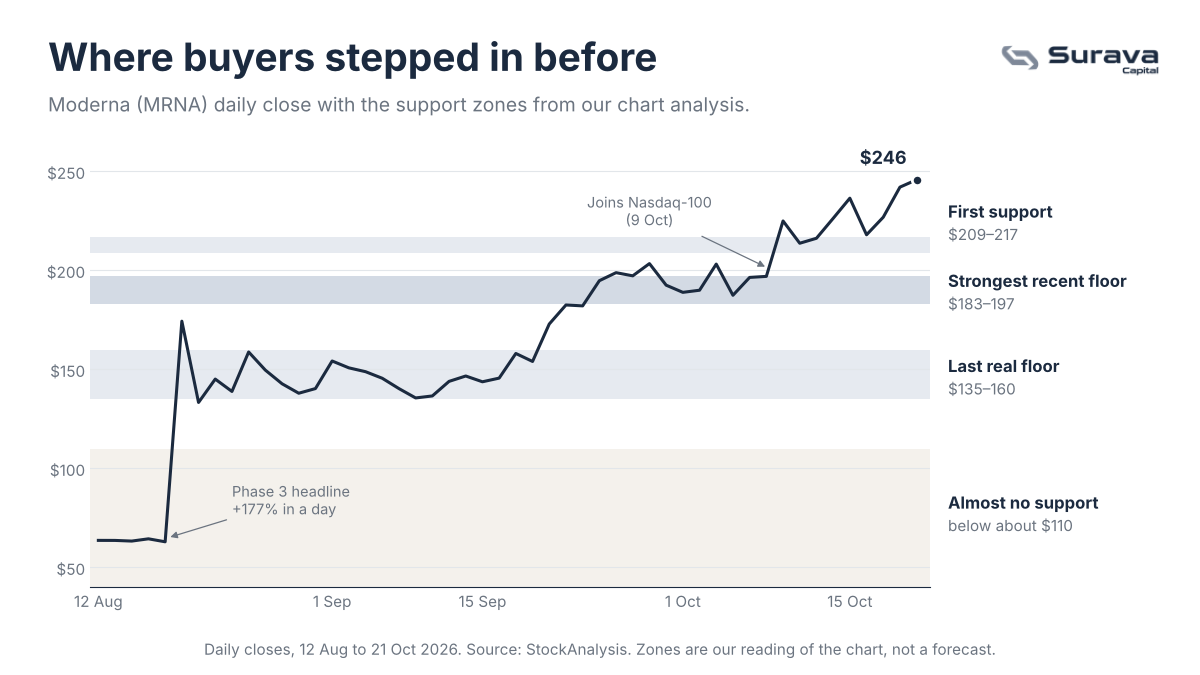
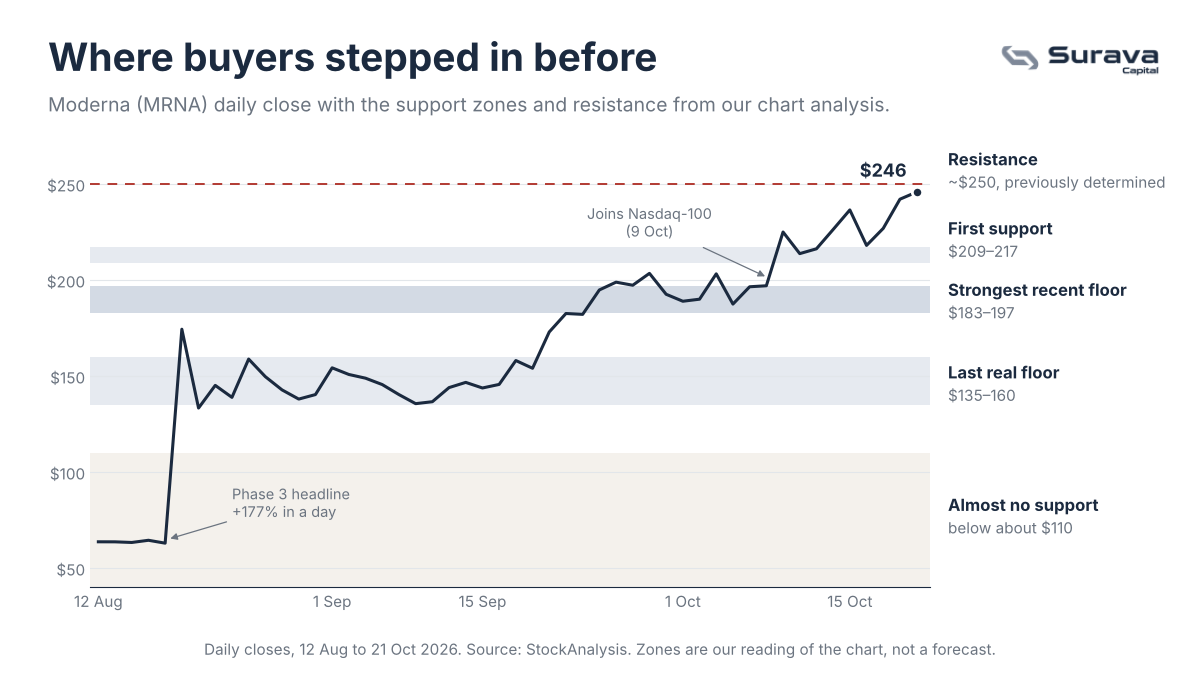
Moderna chart: add previously determined resistance at ~$250
Claude-Session: https://claude.ai/code/session_01RxzJcgfnWK8o5TKeZEBiGw

diff --git a/insights/insight-05-moderna-hazard-ratio.html b/insights/insight-05-moderna-hazard-ratio.html
@@ -147,8 +147,8 @@
 
       <h2>Where buyers stepped in before</h2>
       <figure style="margin:24px 0 28px;">
-        <img src="/assets/charts/moderna-support-levels.png?v=4" alt="Line chart of Moderna's daily close from 12 August to 21 October 2026 with four shaded support zones: 209 to 217 dollars, 183 to 197 dollars, 135 to 160 dollars, and below about 110 dollars" style="width:100%; height:auto; border:1px solid #E2E6EA; border-radius:10px; display:block;" />
-        <figcaption style="margin-top:10px; font-size:0.85rem; color:#6B7480;">The 135 to 160 dollar zone is where the stock settled after the August jump. Below about 110 dollars there is a gap where it barely traded. Source: StockAnalysis.</figcaption>
+        <img src="/assets/charts/moderna-support-levels.png?v=5" alt="Line chart of Moderna's daily close from 12 August to 21 October 2026 with four shaded support zones: 209 to 217 dollars, 183 to 197 dollars, 135 to 160 dollars, and below about 110 dollars" style="width:100%; height:auto; border:1px solid #E2E6EA; border-radius:10px; display:block;" />
+        <figcaption style="margin-top:10px; font-size:0.85rem; color:#6B7480;">The dashed red line marks the resistance at about 250 dollars that we determined earlier. The 135 to 160 dollar zone is where the stock settled after the August jump. Below about 110 dollars there is a gap where it barely traded. Source: StockAnalysis.</figcaption>
       </figure>
       <p>Take these levels with a pinch of salt. Chart analysis only shows where buyers stepped in before, not where they will next time. What really decides the direction this time is Saturday's data. And because it lands on a weekend, the full reaction hits at Monday's open, so the price can jump straight past these levels.</p>
 
